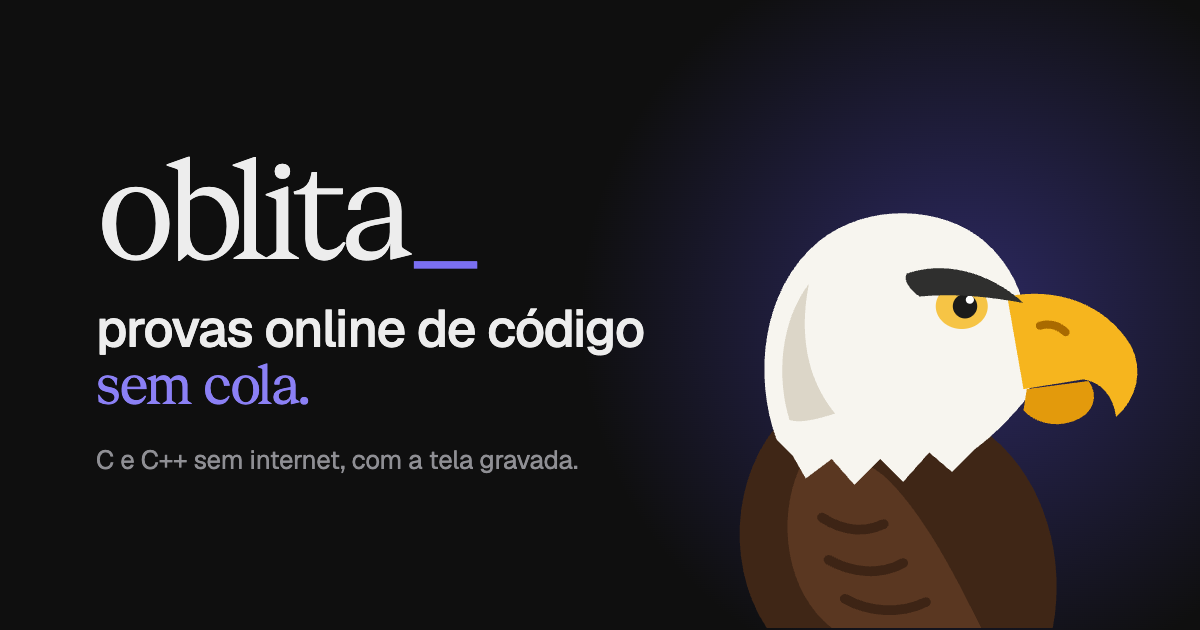
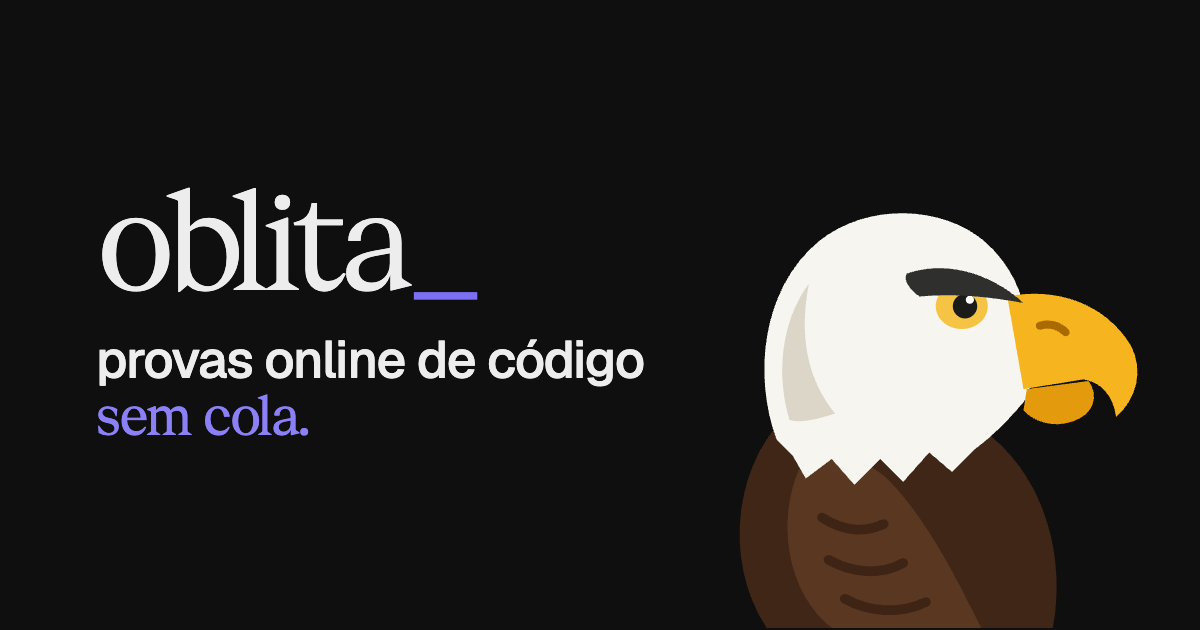
Card sem brilho, rodapé com autor e repositório

Changed region(s): [[0.0617, 0.0603, 1.0, 0.9048], [0.0617, 0.7238, 0.4933, 0.754]]

diff --git a/src/pages/Home.tsx b/src/pages/Home.tsx
@@ -6,6 +6,15 @@ import { useOffline } from '../lib/offline'
 import { parseAddress } from '../net/link'
 import { Logo, Pill } from '../ui/kit'
 
+// O lucide não traz mais logos de marca: o do GitHub vai aqui, em 16 px.
+function GithubMark() {
+  return (
+    <svg width="14" height="14" viewBox="0 0 16 16" fill="currentColor" aria-hidden="true">
+      <path d="M8 0C3.58 0 0 3.58 0 8c0 3.54 2.29 6.53 5.47 7.59.4.07.55-.17.55-.38 0-.19-.01-.82-.01-1.49-2.01.37-2.53-.49-2.69-.94-.09-.23-.48-.94-.82-1.13-.28-.15-.68-.52-.01-.53.63-.01 1.08.58 1.23.82.72 1.21 1.87.87 2.33.66.07-.52.28-.87.51-1.07-1.78-.2-3.64-.89-3.64-3.95 0-.87.31-1.59.82-2.15-.08-.2-.36-1.02.08-2.12 0 0 .67-.21 2.2.82.64-.18 1.32-.27 2-.27.68 0 1.36.09 2 .27 1.53-1.04 2.2-.82 2.2-.82.44 1.1.16 1.92.08 2.12.51.56.82 1.27.82 2.15 0 3.07-1.87 3.75-3.65 3.95.29.25.54.73.54 1.48 0 1.07-.01 1.93-.01 2.2 0 .21.15.46.55.38A8.013 8.013 0 0016 8c0-4.42-3.58-8-8-8z" />
+    </svg>
+  )
+}
+
 function OfflineStatus() {
   const offline = useOffline()
   const pct = offline.total ? Math.round((offline.done / offline.total) * 100) : 0
@@ -112,6 +121,17 @@ export function Home() {
           </Link>
         </div>
       </main>
+      <footer className="home-foot">
+        <span>
+          by:{' '}
+          <a href="https://giuli.dev" target="_blank" rel="noopener noreferrer">
+            giuliano
+          </a>
+        </span>
+        <a href="https://github.com/giulianoo0/oblita" target="_blank" rel="noopener noreferrer" aria-label="Código no GitHub">
+          <GithubMark /> GitHub
+        </a>
+      </footer>
     </div>
   )
 }

diff --git a/scripts/card.html b/scripts/card.html
@@ -7,16 +7,12 @@
   * { margin: 0; box-sizing: border-box; }
   html, body { width: 1200px; height: 630px; overflow: hidden; }
   body { position: relative; background: #0f0f0f; color: #ededed; font-family: 'Geist', system-ui, sans-serif; display: flex; flex-direction: column; justify-content: center; padding: 0 0 0 96px; gap: 28px; }
-  .glow { position: absolute; right: -140px; top: 50%; width: 760px; height: 760px; translate: 0 -50%; border-radius: 50%; background: radial-gradient(closest-side, oklch(0.55 0.22 279 / 0.38), transparent); }
   .eagle { position: absolute; right: 40px; bottom: -24px; width: 520px; height: 520px; }
   .logo { position: relative; font-family: 'Geist Serif'; font-weight: 500; font-size: 132px; line-height: 0.9; letter-spacing: -0.045em; }
   .logo i { font-style: normal; color: #7b6ff2; }
   p { position: relative; max-width: 620px; font-size: 52px; font-weight: 500; letter-spacing: -0.022em; line-height: 1.1; color: #ededed; }
   p span { font-family: 'Geist Serif'; color: #8b80f5; }
-  small { position: relative; font-size: 26px; color: #8f8f94; letter-spacing: -0.01em; }
 </style>
-<div class="glow"></div>
 <img class="eagle" src="../public/eagle.svg" alt="" />
 <div class="logo">oblita<i>_</i></div>
 <p>provas online de código <span>sem cola.</span></p>
-<small>C e C++ sem internet, com a tela gravada.</small>

diff --git a/index.html b/index.html
@@ -14,7 +14,7 @@
     <meta property="og:title" content="oblita_" />
     <meta property="og:description" content="provas online de código sem cola." />
     <meta property="og:url" content="https://oblita.giuli.dev/" />
-    <meta property="og:image" content="https://oblita.giuli.dev/social-card.png?v=2" />
+    <meta property="og:image" content="https://oblita.giuli.dev/social-card.png?v=3" />
     <meta property="og:image:width" content="1200" />
     <meta property="og:image:height" content="630" />
     <meta property="og:image:type" content="image/png" />
@@ -22,7 +22,7 @@
     <meta name="twitter:card" content="summary_large_image" />
     <meta name="twitter:title" content="oblita_" />
     <meta name="twitter:description" content="provas online de código sem cola." />
-    <meta name="twitter:image" content="https://oblita.giuli.dev/social-card.png?v=2" />
+    <meta name="twitter:image" content="https://oblita.giuli.dev/social-card.png?v=3" />
     <meta name="twitter:image:alt" content="oblita_ provas online de código sem cola." />
     <link rel="alternate" type="application/json+oembed" href="https://oblita.giuli.dev/oembed.json" title="oblita_" />
     <title>oblita_</title>

diff --git a/src/styles/app.css b/src/styles/app.css
@@ -307,3 +307,7 @@ textarea.input { height: auto; min-height: 5.5rem; padding: 0.625rem 0.875rem; r
 .team-code-input { font-size: var(--text-lg); letter-spacing: 0.2em; text-transform: uppercase; }
 
 .modal a { color: var(--primary); text-underline-offset: 2px; }
+
+.home-foot { display: flex; align-items: center; justify-content: center; gap: 1.25rem; padding: 1.25rem 1.5rem 1.5rem; font-size: var(--text-sm); color: var(--text-faint); }
+.home-foot a { display: inline-flex; align-items: center; gap: 0.375rem; color: var(--text-muted); text-decoration: none; transition: color var(--dur-fast); }
+.home-foot a:hover { color: var(--text); }
